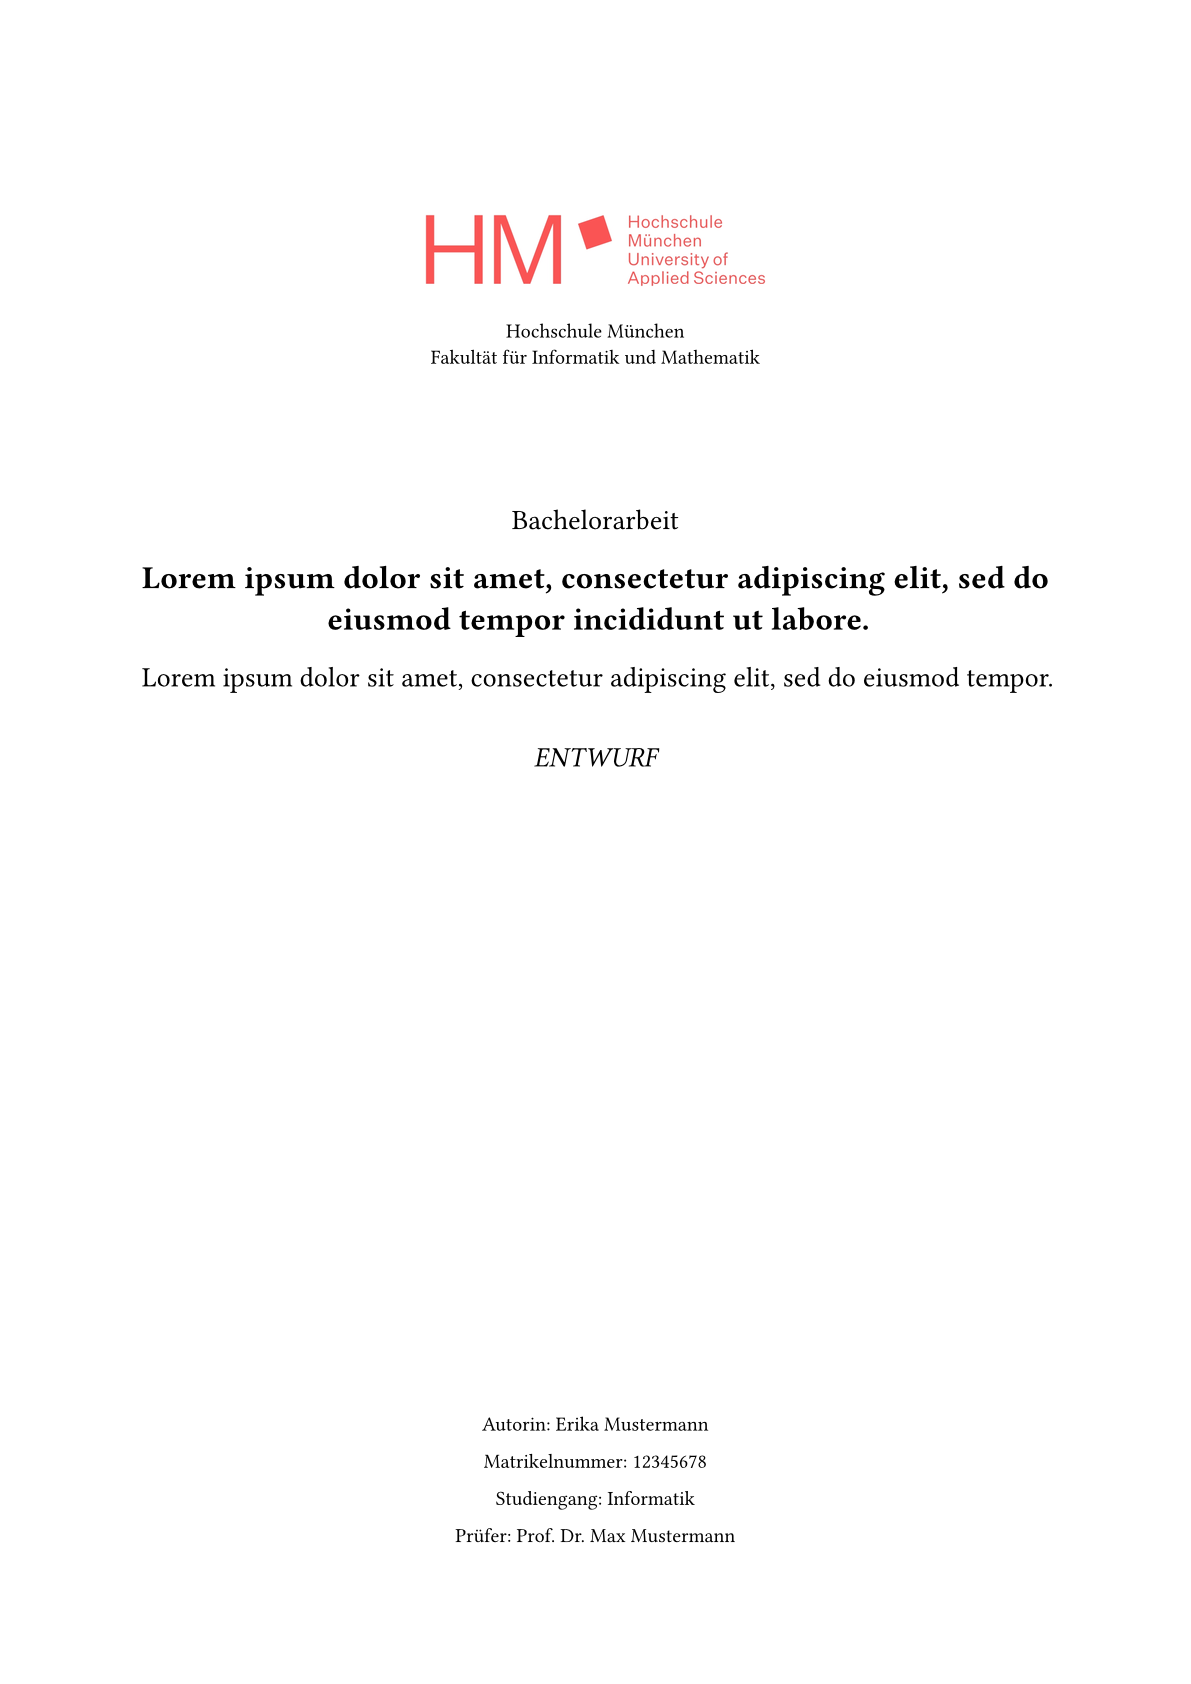
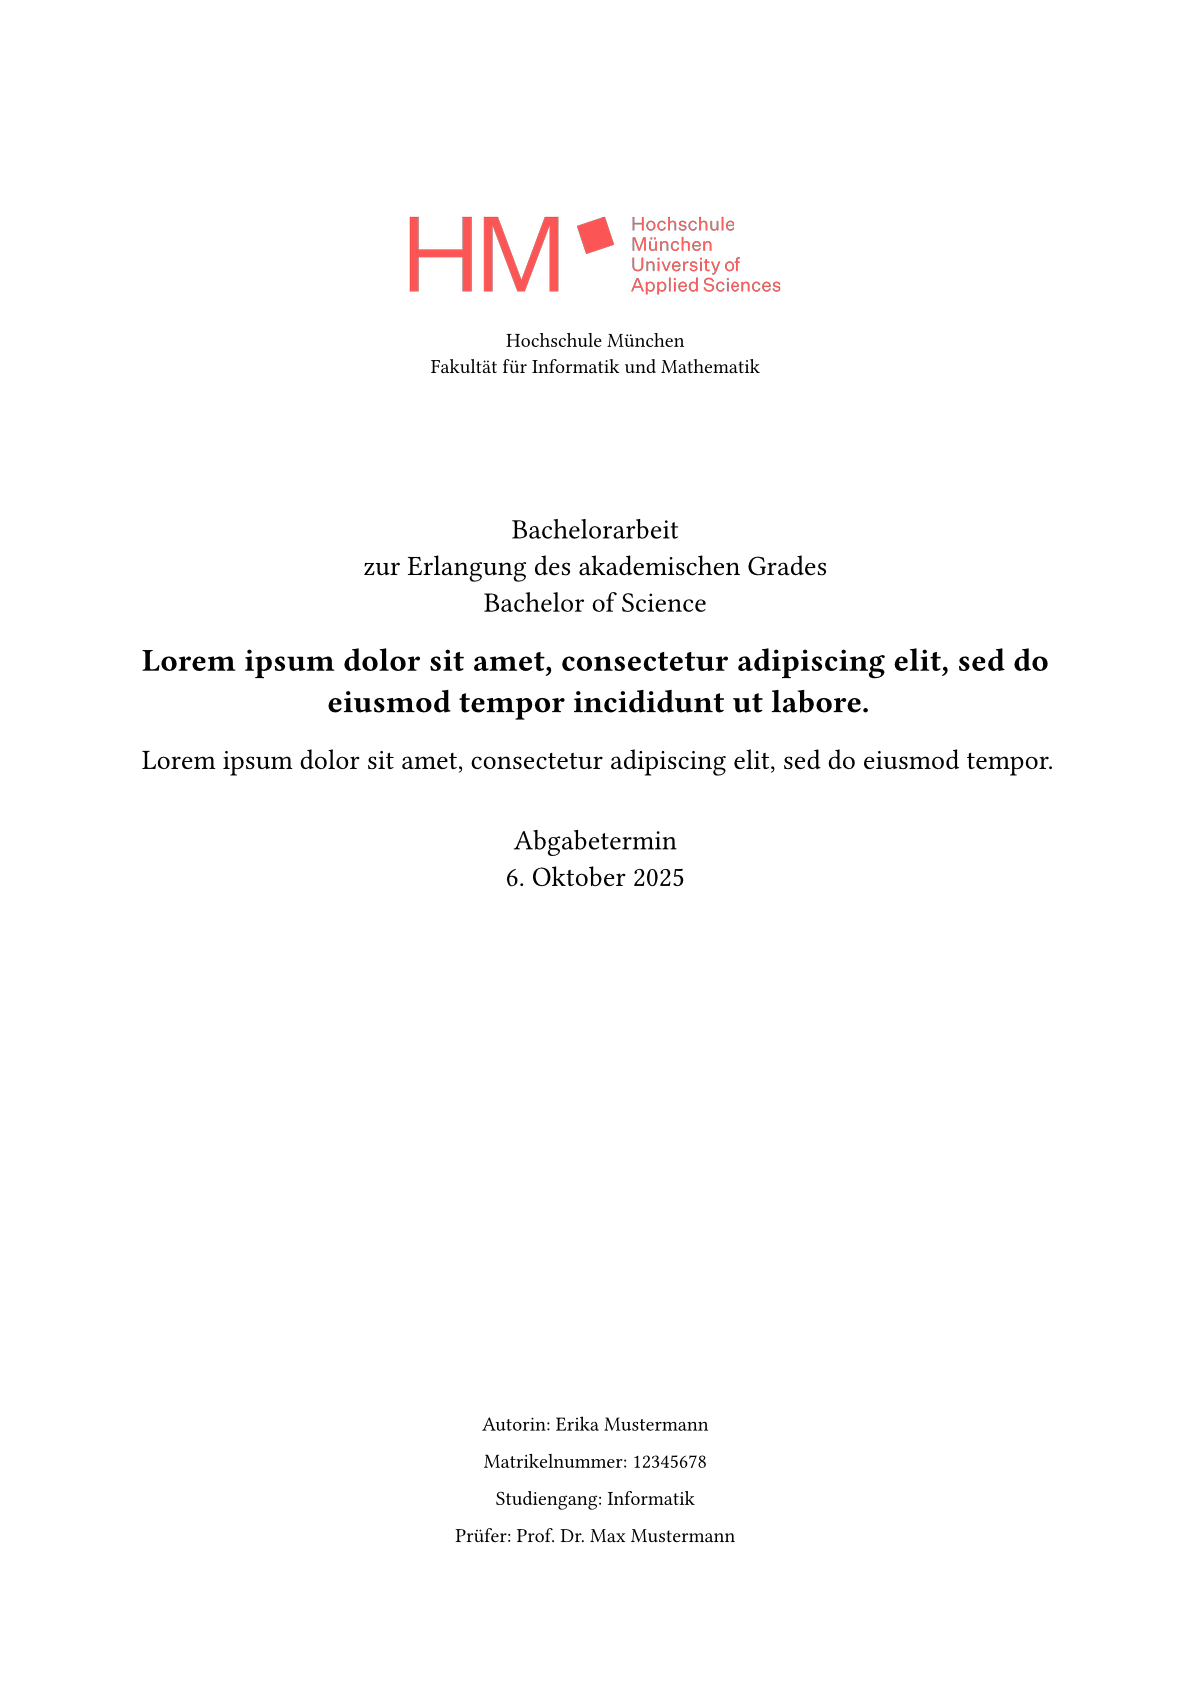
adjust package template + metadata

diff --git a/README.md b/README.md
@@ -23,6 +23,7 @@ typst init @preview/scribbling-hm
 |----------|-------------|
 | `title` | The title of your thesis |
 | `title-translation` | English translation of the title |
+| `course-of-study` | Your course of study |
 | `author` | Your full name |
 | `gender` | Your gender |
 | `student-id` | Your student ID number |
